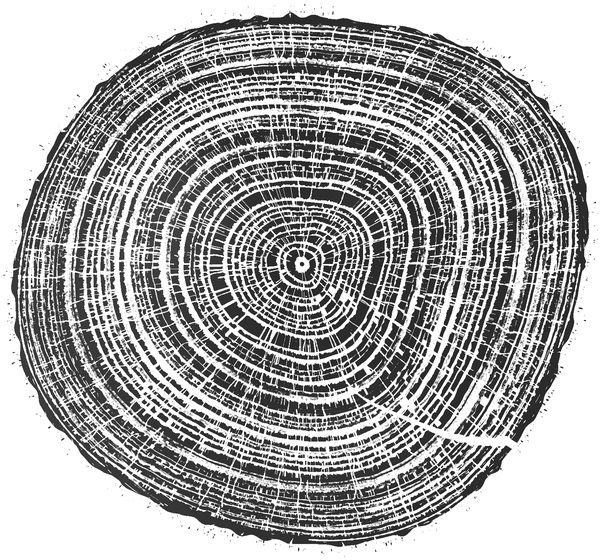
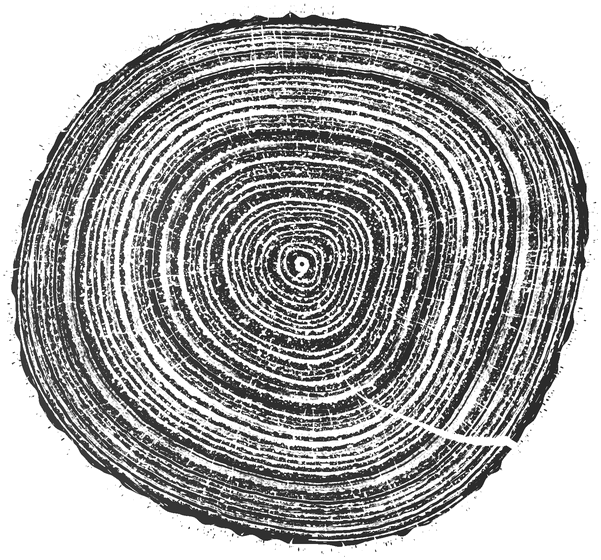
Press: rays drawn at screen width (fine, tapered), oak scan averaged along the ring (no comb or channels), clean heart, solid bands with sparse flecks
Claude-Session: https://claude.ai/code/session_01WhGxUDQ2nhT1B8pKnZrdq5

Changed region(s): [[0.03, 0.0304, 0.9884, 0.9714]]

diff --git a/src/rings/gpu.ts b/src/rings/gpu.ts
@@ -39,7 +39,7 @@ const YEARS = COMMON + `
 uniform sampler2D uRad, uRing, uLev, uFib;
 uniform int uN, uB, uOak, uFamRing, uConifer, uHasFib, uFibW, uFibH, uOakN, uLvN;
 uniform int uLvO[12], uLvW[12], uLvH[12], uLvRows[12];
-uniform float uPithMM, uSnap, uWood;
+uniform float uPithMM, uSnap, uWood, uRayK, uRayW;
 uniform float uX0, uY0, uH, uCx, uCy, uTurn, uRmax, uWA, uWL, uWL2, uU, uPx, uW0, uRay, uRun0, uRun1, uSparse, uInk;
 uniform float uEarly, uLate, uShare, uEdge, uPores, uPoreR, uPoreEarly, uFibre, uMottle, uSharp;
 uniform vec3 uInkRGB;
@@ -55,7 +55,8 @@ float rad(int i, int b, float f) { int k = (i + 1) * (uB + 1) + b; float p = at(
 // (Each ring's facts: 0 reps, 1 off, 2 year, 3 level, 4 runR, 5 thin, 6 edge, 7 half, 8 edgeIn, 9 edgeOut, 10 tone, 11 calm.)
 float R(int i, int k) { return at(uRing, i * 14 + k); }
 float lineAt(int j, float dist) { return j < 0 || R(j, 6) == 0. ? 0. : clamp((R(j, 7) + 0.5 * uPx - dist) / uPx, 0., 1.) * R(j, 5); }
-float rayAt(float a, float rho) {
+// (kp: the slice's own px to a unit of the wood; ws how much finer a ray is drawn than the look in magnifies it.)
+float rayAt(float a, float rho, float kp, float ws) {
   const float R0 = 10., GAP = 3.6;
   if (rho < R0 * 0.6) return 0.;
   int lv = max(0, int(floor(log2(rho / R0)))), N0 = max(6, int(round(TAU * R0 / GAP))), N = N0 << lv;
@@ -66,16 +67,16 @@ float rayAt(float a, float rho) {
     for (int q = 0; q < 30; q++) { if (bl > 0 && (bk & 1) == 0) { bk >>= 1; bl--; } else break; }
     float id = float(bk) * 7.31 + float(bl) * 31.7, nb = float(N0 << bl), born = R0 * exp2(float(bl)) * (bl > 0 ? 0.7 + 0.6 * h1(id * 1.9) : 0.6);
     if (rho < born) continue;
-    float hf = 0.07 + 0.16 * h1(id * 3.7) * h1(id * 3.7), home = (float(bk) + 0.5 + (h1(id) - 0.5) * 0.5) / nb * Nf;
+    float hf = (0.07 + 0.16 * h1(id * 3.7) * h1(id * 3.7)) * ws * (0.45 + 0.55 * min(1., (rho - born) / 8.)), home = (float(bk) + 0.5 + (h1(id) - 0.5) * 0.5) / nb * Nf;
     float d0 = abs(sAt - home); d0 = min(d0, Nf - d0);
-    if ((d0 - 0.8) * TAU * rho / Nf > hf + 0.8) continue;
+    if ((d0 - 0.8) * TAU * rho / Nf * kp > hf + 0.8 + 0.35) continue;
     float wander = sin(rho / (40. + 30. * h1(id * 2.3)) + id) * 0.45 + (vnoise(id * 0.71, rho / 9.) - 0.5) * 0.7;
     float there = ((float(bk) + 0.5 + (h1(id) - 0.5) * 0.5) / nb + wander / Nf) * Nf;
     float dd = abs(sAt - there); dd = min(dd, Nf - dd);
-    float dist = dd * TAU * rho / Nf + (vnoise(rho * 0.9 + id, id * 0.13) - 0.5) * 0.35;
-    if (dist > hf + 0.6) continue;
+    float dist = dd * TAU * rho / Nf * kp + (vnoise(rho * 2.4 + id, id * 0.13) - 0.5) * 0.35 * ws;
+    if (dist > hf + 0.6 * ws) continue;
     if (vnoise(id * 0.37, rho / uRun0) < uRun1) continue;
-    best = max(best, min(1., sm(1. - (dist - hf) / 0.6)) * min(1., (rho - born) / 3.));
+    best = max(best, min(1., sm(1. - (dist - hf) / (0.6 * ws))) * min(1., (rho - born) / 3.));
   }
   return best;
 }
@@ -98,8 +99,9 @@ float drawnInk(int i, float a, float r, float across, bool heart, float width, f
   // (Ink taken or not: the bleed is black specks and blots, never a grey.)
   ink += near * sm((ringN(a, rr, 0.5, fi * 4.3, rho * 0.5 + fi) - 0.74) / 0.04) * sm((ringN(a, rr, 1.6, 0., rho * 1.6 + fi) - 0.35) / 0.05);
   // (Starved inside the band: small specks of paper, as round as long, never streaks.)
-  ink *= 1. - band * sm((ringN(a, rr, 1.4, fi * 9.7, rho * 1.4) - 0.74) / 0.05);
-  ink *= 1. - 0.8 * band * sm((ringN(a, rr, 3.1, fi * 5.9, rho * 3.1 + 11.) - 0.8) / 0.05);
+  // (Starved here and there: flecks of paper in the band, few and of a size, never a sand.)
+  ink *= 1. - band * sm((ringN(a, rr, 0.9, fi * 9.7, rho * 0.9) - 0.8) / 0.04);
+  ink *= 1. - 0.7 * band * sm((ringN(a, rr, 2.2, fi * 5.9, rho * 2.2 + 11.) - 0.9) / 0.04);
   // (The pale wood between, never bare: the grain's fine lines faintly inked along the year, broken.)
   ink = max(ink, (1. - band) * 0.9 * sm((ringN(a, rr, 0.6, fi * 2.7, rho * 1.8 + 7.) - 0.9) / 0.03) * sm((ringN(a, rr, 0.25, 3., rho * 0.25) - 0.55) / 0.1));
   if (uMottle > 0.) ink *= 1. + uMottle * (vnoise(dx / (22. * uU) + 3.1, dy / (22. * uU) + 7.7) - 0.5) * 2.;
@@ -147,11 +149,19 @@ void main() {
     float rr = rrM * uSnap, w = max(1e-3, rout - rin), yv = h1(fi * 1.37 + 0.71), heavy = 0.85 + 0.3 * h1(fi * 2.91 + 0.3);
     float fray = (ringN(a, rr, 0.7, fi * 3.1, rr * 0.7) - 0.5) + 0.7 * (ringN(a, rr, 1.9, fi, rr * 1.9 + 3.) - 0.5);
     float acr = heart ? across : clamp(pow(clamp(across + 1.4 * uU / w * fray, 0., 1.), 0.7 + 0.6 * yv), 0., 1.);
-    ink = sampleL(uLev, uLvO[li], uLvW[li], uLvH[li], ((a / TAU) * reps * uW0 + R(i, 1) + wob * reps * 0.15) * float(uLvW[li]) / uW0, float(year) * rows + acr * rows, float(year) * rows, rows);
+    // (The scan read a little either way along the year and averaged: its own rays and pores, enlarged, never a
+    // comb of teeth or a row of white channels; the rays are drawn after, fine.)
+    float u0 = ((a / TAU) * reps * uW0 + R(i, 1) + wob * reps * 0.15) * float(uLvW[li]) / uW0, sp = 0.012 * float(uLvW[li]), yy = float(year) * rows + acr * rows, top = float(year) * rows;
+    ink = 0.;
+    for (int q = -2; q <= 2; q++) ink += sampleL(uLev, uLvO[li], uLvW[li], uLvH[li], u0 + float(q) * sp, yy, top, rows) * (q == 0 ? 0.28 : q * q == 1 ? 0.2 : 0.16);
     if (uFamRing == 1) ink = pow(max(0., ink), 1. + 1.2 * (1. - sm((acr - 0.35) / 0.45)));
     // (Ink taken or not, as a print takes it: firmer, never a grey wash; starved to small specks of paper.)
     ink = sm((ink * heavy - 0.32) / 0.4);
-    ink *= 1. - 0.9 * sm((ringN(a, rr, 1.4, fi * 9.7, rr * 1.4) - 0.76) / 0.05);
+    // (Starved here and there to flecks of paper: never a flat black block.)
+    ink *= 1. - 0.95 * sm((ringN(a, rr, 0.9, fi * 9.7, mm * uSnap * 0.9) - 0.76) / 0.04);
+    ink *= 1. - 0.8 * sm((ringN(a, rr, 2.2, fi * 5.9, mm * uSnap * 2.2 + 11.) - 0.84) / 0.04);
+    // (The heart: no stretched copy of the year, only a pale pith ringed by its first dark edge.)
+    if (heart) ink = 0.92 * sm((across - 0.62) / 0.22) * (1. - 0.8 * sm((ringN(a, rr, 1.2, 3., mm * uSnap * 1.2) - 0.78) / 0.05));
     ink *= R(i, 10);
   } else ink = drawnInk(i, a, r, across, heart, rout - rin, dx, dy, rrM * uSnap, mm * uSnap) * R(i, 10);
   if (!heart && R(i, 5) > 0.) {
@@ -161,7 +171,8 @@ void main() {
     if (cov > 0.) ink = max(ink, 0.95 * cov);
   }
   // (The drawn woods' rays fine and sparing, as a print shows them: the years' bands run on through them.)
-  if (uRay > 0. && !heart) ink *= 1. - uRay * (uOak == 1 ? 1. : 0.55) * rayAt(a, mm * uWood);
+  // (The rays fine, as a print shows them, and ending short of the bark; the scanned woods' own rays already there.)
+  if (uRay > 0. && !heart) ink *= 1. - uRay * (uOak == 1 ? 0.6 : 0.55) * rayAt(a, mm * uWood, uRayK, uRayW) * (i == uN - 1 ? 1. - sm((across - 0.55) / 0.4) : 1.);
   float al = floor(255. * clamp(ink, 0., 1.) + 0.5) / 255.;
   o = vec4(uInkRGB * al, al);
 }

diff --git a/src/rings/press.ts b/src/rings/press.ts
@@ -1957,6 +1957,8 @@ function printYears(v: View, oak: Years | null): void {
   // (`WOOD` to the mm), as real rays run on from year to year, more of them as the trunk widens; the finer grain
   // and pores at the slice's own scale to the nearest doubling (`SNAP`), so they keep still from day to day.)
   const WOOD = 1 / 2.7, SNAP = 2 ** Math.round(Math.log2(Math.max(1e-6, v.s / (px * Z))));
+  // (A ray's width though is the screen's: as fine as a print shows one, broadening a little only as it's looked into.)
+  const RAYK = (v.s / (px * Z)) / WOOD, RAYW = Math.pow(Z, -0.4);
   const an = oak ? null : ANATOMY[kind] ?? ANATOMY.cherry!, fib = wood.fibre[kind], U = px * Z, conifer = fam() === 'conifer', RAY = RAYS[kind] ?? 0;
   const drawnInk = (i: number, a: number, _r: number, across: number, _heart: boolean, width: number, dx: number, dy: number, rmid: number, rho: number): number => {
     const A = an!;
@@ -1980,8 +1982,8 @@ function printYears(v: View, oak: Years | null): void {
     // (Bled beside it in black specks and blots, never a grey; starved inside it to small specks of paper.)
     const near = smooth((across - (start - 0.45)) / 0.45) * (1 - band);
     ink += near * smooth((rn(0.5, i * 4.3, rho * 0.5 + i) - 0.74) / 0.04) * smooth((rn(1.6, 0, rho * 1.6 + i) - 0.35) / 0.05);
-    ink *= 1 - band * smooth((rn(1.4, i * 9.7, rho * 1.4) - 0.74) / 0.05);
-    ink *= 1 - 0.8 * band * smooth((rn(3.1, i * 5.9, rho * 3.1 + 11) - 0.8) / 0.05);
+    ink *= 1 - band * smooth((rn(0.9, i * 9.7, rho * 0.9) - 0.8) / 0.04);
+    ink *= 1 - 0.7 * band * smooth((rn(2.2, i * 5.9, rho * 2.2 + 11) - 0.9) / 0.04);
     // (The pale wood between: the grain's fine lines faintly inked along the year, broken.)
     ink = Math.max(ink, (1 - band) * 0.9 * smooth((rn(0.6, i * 2.7, rho * 1.8 + 7) - 0.9) / 0.03) * smooth((rn(0.25, 3, rho * 0.25) - 0.55) / 0.1));
     if (A.mottle) ink *= 1 + A.mottle * (vnoise(dx / (22 * U) + 3.1, dy / (22 * U) + 7.7) - 0.5) * 2;
@@ -2011,7 +2013,7 @@ function printYears(v: View, oak: Years | null): void {
     for (let k = 0, o = 0; k < LV; k++) { lvO[k] = o; lvW[k] = lv[k].w; lvH[k] = lv[k].h; lvRows[k] = lv[k].rows; o += lv[k].w * lv[k].h; }
     const pic = gpu.run('years', w, h,
       { uN: n, uB: B, uOak: oak ? 1 : 0, uFamRing: fam() === 'ring' ? 1 : 0, uConifer: conifer ? 1 : 0, uHasFib: fib ? 1 : 0, uFibW: fib?.w ?? 1, uFibH: fib?.h ?? 1, uOakN: oak?.n ?? 1, uLvN: Math.max(1, LV), uLvO: lvO, uLvW: lvW, uLvH: lvH, uLvRows: lvRows },
-      { uPithMM: meanR(-1), uSnap: SNAP, uWood: WOOD, uX0: x0, uY0: y0, uH: h, uCx: v.cx, uCy: v.cy, uTurn: v.turn, uRmax: rmax, uWA: wA, uWL: wL, uWL2: wL2, uU: U, uPx: px, uW0: W0, uRay: RAY, uRun0: run[0], uRun1: run[1], uSparse: SPARSE,
+      { uPithMM: meanR(-1), uSnap: SNAP, uWood: WOOD, uRayK: RAYK, uRayW: RAYW, uX0: x0, uY0: y0, uH: h, uCx: v.cx, uCy: v.cy, uTurn: v.turn, uRmax: rmax, uWA: wA, uWL: wL, uWL2: wL2, uU: U, uPx: px, uW0: W0, uRay: RAY, uRun0: run[0], uRun1: run[1], uSparse: SPARSE,
         uEarly: A.early, uLate: A.late, uShare: A.share, uEdge: A.edge, uPores: A.pores, uPoreR: A.poreR, uPoreEarly: A.poreEarly, uFibre: A.fibre, uMottle: A.mottle, uSharp: A.sharp ?? 1.4, uInkRGB: [INK[0] / 255, INK[1] / 255, INK[2] / 255] },
       { uNoise: { key: NOISE, data: () => NOISE }, uRad: { name: 'rad', data: rad }, uRing: { name: 'ring', data: ring },
         uLev: oak ? { key: oak, data: () => atlasOf(oak) } : { key: NONE, data: () => NONE }, uFib: fib ? { key: fib, data: () => fib.d } : { key: NONE, data: () => NONE } });
@@ -2055,11 +2057,17 @@ function printYears(v: View, oak: Years | null): void {
         const rn = (kx: number, ox: number, y: number) => { const n0 = vnoise(a * rr * kx + ox, y); return wrap > 0 ? n0 + (vnoise((a - TAU) * rr * kx + ox, y) - n0) * wrap : n0; };
         const fray = rn(0.7, i * 3.1, rr * 0.7) - 0.5 + 0.7 * (rn(1.9, i, rr * 1.9 + 3) - 0.5);
         const acr = heart ? across : Math.max(0, Math.min(1, Math.pow(Math.max(0, Math.min(1, across + ((1.4 * U) / wd) * fray)), 0.7 + 0.6 * yv)));
-        ink = sample(L, (((a / TAU) * reps[i] * W0 + off[i] + wob * reps[i] * 0.15) * L.w) / W0, year * rows + acr * rows, year * rows, rows);
+        // (Read a little either way along the year and averaged: never a comb of teeth or a row of white channels.)
+        const u0 = (((a / TAU) * reps[i] * W0 + off[i] + wob * reps[i] * 0.15) * L.w) / W0, sp = 0.012 * L.w, yy = year * rows + acr * rows, top = year * rows;
+        ink = 0;
+        for (let q = -2; q <= 2; q++) ink += sample(L, u0 + q * sp, yy, top, rows) * (q === 0 ? 0.28 : q * q === 1 ? 0.2 : 0.16);
         // (Oak's and ash's springwood opened toward the paper, their latewood kept heavy: the year reads as a band.)
         if (fam() === 'ring') ink = Math.pow(Math.max(0, ink), 1 + 1.2 * (1 - smooth((acr - 0.35) / 0.45)));
         // (Ink taken or not, never a grey wash; starved to small specks of paper.)
-        ink = smooth((ink * heavy - 0.32) / 0.4) * (1 - 0.9 * smooth((rn(1.4, i * 9.7, rr * 1.4) - 0.76) / 0.05)) * tone(i);
+        ink = smooth((ink * heavy - 0.32) / 0.4) * (1 - 0.95 * smooth((rn(0.9, i * 9.7, mm * SNAP * 0.9) - 0.76) / 0.04)) * (1 - 0.8 * smooth((rn(2.2, i * 5.9, mm * SNAP * 2.2 + 11) - 0.84) / 0.04));
+        // (The heart: a pale pith ringed by its first dark edge, never a stretched copy of the year.)
+        if (heart) ink = 0.92 * smooth((across - 0.62) / 0.22) * (1 - 0.8 * smooth((rn(1.2, 3, mm * SNAP * 1.2) - 0.78) / 0.05));
+        ink *= tone(i);
       } else ink = drawnInk(i, a, r, across, heart, rout - rin, dx, dy, rrM * SNAP, mm * SNAP) * tone(i);
       if (!heart && thin[i] > 0) {
         // (As dark as the wide years: lines as wide as some three-fifths of the space they stand for.)
@@ -2071,7 +2079,8 @@ function printYears(v: View, oak: Years | null): void {
       // The rays: the wood's fine radial lines, open to the paper, crossing every year, so the latewood prints
       // as a run of small bricks.
       // (The drawn woods' rays fine and sparing, as a print shows them: the years' bands run on through them.)
-      if (RAY && !heart) ink *= 1 - RAY * (oak ? 1 : 0.55) * rayAt(a, mm * WOOD, RAY_RUN[kind]);
+      // (The rays fine, as a print shows them, and ending short of the bark; the scanned woods' own rays already there.)
+      if (RAY && !heart) ink *= 1 - RAY * (oak ? 0.6 : 0.55) * rayAt(a, mm * WOOD, RAY_RUN[kind], RAYK, RAYW) * (i === n - 1 ? 1 - smooth((across - 0.55) / 0.4) : 1);
       const k = (y * w + x) * 4;
       d[k] = INK[0]; d[k + 1] = INK[1]; d[k + 2] = INK[2]; d[k + 3] = Math.round(255 * Math.min(1, ink));
     }

diff --git a/src/rings/anatomy.ts b/src/rings/anatomy.ts
@@ -57,7 +57,8 @@ export const RAY_RUN: Partial<Record<Kind, [number, number]>> = { fir: [7, 0.6],
  * them, each at its own radius; each wanders a little and breaks now and then. Laid out by levels, each twice
  * the last's, a ray begun at one level running on through all the rest, so none ever jumps.
  */
-export function rayAt(a: number, rho: number, run: [number, number] = [20, 0.3]): number {
+/** (`kp`: the slice's own px to a unit of the wood; `ws` how much finer a ray is drawn than a look in magnifies it.) */
+export function rayAt(a: number, rho: number, run: [number, number] = [20, 0.3], kp = 1, ws = 1): number {
   const R0 = 10, GAP = 3.6;
   if (rho < R0 * 0.6) return 0;
   const lv = Math.max(0, Math.floor(Math.log2(rho / R0))), N0 = Math.max(6, Math.round((TAU * R0) / GAP)), N = N0 * 2 ** lv;
@@ -70,19 +71,19 @@ export function rayAt(a: number, rho: number, run: [number, number] = [20, 0.3])
     const id = bk * 7.31 + bl * 31.7, nb = N0 * 2 ** bl, born = R0 * 2 ** bl * (bl ? 0.7 + 0.6 * h1(id * 1.9) : 0.6);
     if (rho < born) continue;
     // (Too far from where it could wander to, whatever its wandering: passed by without working it out.)
-    const half = 0.07 + 0.16 * h1(id * 3.7) ** 2, home = (bk + 0.5 + (h1(id) - 0.5) * 0.5) / nb * N;
+    const half = (0.07 + 0.16 * h1(id * 3.7) ** 2) * ws * (0.45 + 0.55 * Math.min(1, (rho - born) / 8)), home = (bk + 0.5 + (h1(id) - 0.5) * 0.5) / nb * N;
     let d0 = Math.abs(sAt - home); d0 = Math.min(d0, N - d0);
-    if (((d0 - 0.8) * TAU * rho) / N > half + 0.8) continue;
+    if (((d0 - 0.8) * TAU * rho * kp) / N > half + 0.8 + 0.35) continue;
     // (Where it lies: its birth place, a little off even, wandering slowly outward.)
     // (Never ruled: it bends a little as the years about it swell and pinch, slowly and in small jogs.)
     const wander = Math.sin(rho / (40 + 30 * h1(id * 2.3)) + id) * 0.45 + (vnoise(id * 0.71, rho / 9) - 0.5) * 0.7;
     const at = ((bk + 0.5 + (h1(id) - 0.5) * 0.5) / nb + wander / N) * N;
     let dd = Math.abs(sAt - at); dd = Math.min(dd, N - dd);
-    const dist = (dd * TAU * rho) / N + (vnoise(rho * 0.9 + id, id * 0.13) - 0.5) * 0.35;
-    if (dist > half + 0.6) continue;
+    const dist = (dd * TAU * rho * kp) / N + (vnoise(rho * 2.4 + id, id * 0.13) - 0.5) * 0.35 * ws;
+    if (dist > half + 0.6 * ws) continue;
     // (A run, then broken off: short flecks in most woods, long runs in oak's.)
     if (vnoise(id * 0.37, rho / run[0]) < run[1]) continue;
-    best = Math.max(best, Math.min(1, smooth(1 - (dist - half) / 0.6)) * Math.min(1, (rho - born) / 3));
+    best = Math.max(best, Math.min(1, smooth(1 - (dist - half) / (0.6 * ws))) * Math.min(1, (rho - born) / 3));
   }
   return best;
 }

diff --git a/RINGS-HISTORY.md b/RINGS-HISTORY.md
@@ -273,3 +273,9 @@ At about 5× zoom, the time to press the whole screen fell to roughly a quarter 
 **October 18: the rays keep their places.** The rays, and the year's fine grain and pores, were laid by where a point fell on the screen. Every year added, the slice draws back a little, so every ray in the slice was laid anew and the lines jumped. Real rays never move: each runs on into the new year, and a few new ones begin as the trunk widens. Now the rays are laid in the wood's own millimetres, so the old ones keep their places and new ones begin only in new wood, more of them as the slice grows. The finer grain is laid at the slice's own scale to the nearest doubling, so it keeps still from day to day too. (A ring added, the wood inside it matched its last print 0.75 before, 0.92 now for cherry and 0.95 for oak.) The breath's shade round the bark is fainter.
 
 **October 18: the year grows out.** Closing a loop, the new year's wood now grows out from the old bark over some two and a half seconds, quick at first and slowing as a summer does. The bark is carried out on its edge, and the drawn line draws in to meet it. The slice itself stays still while it grows: the years before never move, and the view draws back to make room only once the year is in.
+
+**October 18: oak and cherry, looked into.**
+- Rays had come to be drawn in the wood's millimetres, width and all, so looked into, or on a young tree, they were wide white channels cutting the bands into bricks. They now keep their places in the wood but are drawn the screen's width: fine, varied, tapering where they begin and wandering a little. They broaden only a little as the slice is looked into, and end short of the bark.
+- Oak's and ash's scanned wood is now read a little either way along the year and averaged. Its own pores and rays, enlarged, no longer make a comb of teeth on each band's edge or a row of white channels. Their bands are starved here and there to flecks of paper, never a flat black block. Their heart is a pale pith ringed by its first dark edge, never a stretched, smeared copy of the year.
+- The drawn woods' bands (cherry's, maple's, the rest) were starved to a fine sand of paper. Their flecks are now fewer and larger, so the bands read solid, as the artist's prints do.
+- The choosing slices were pressed again.
